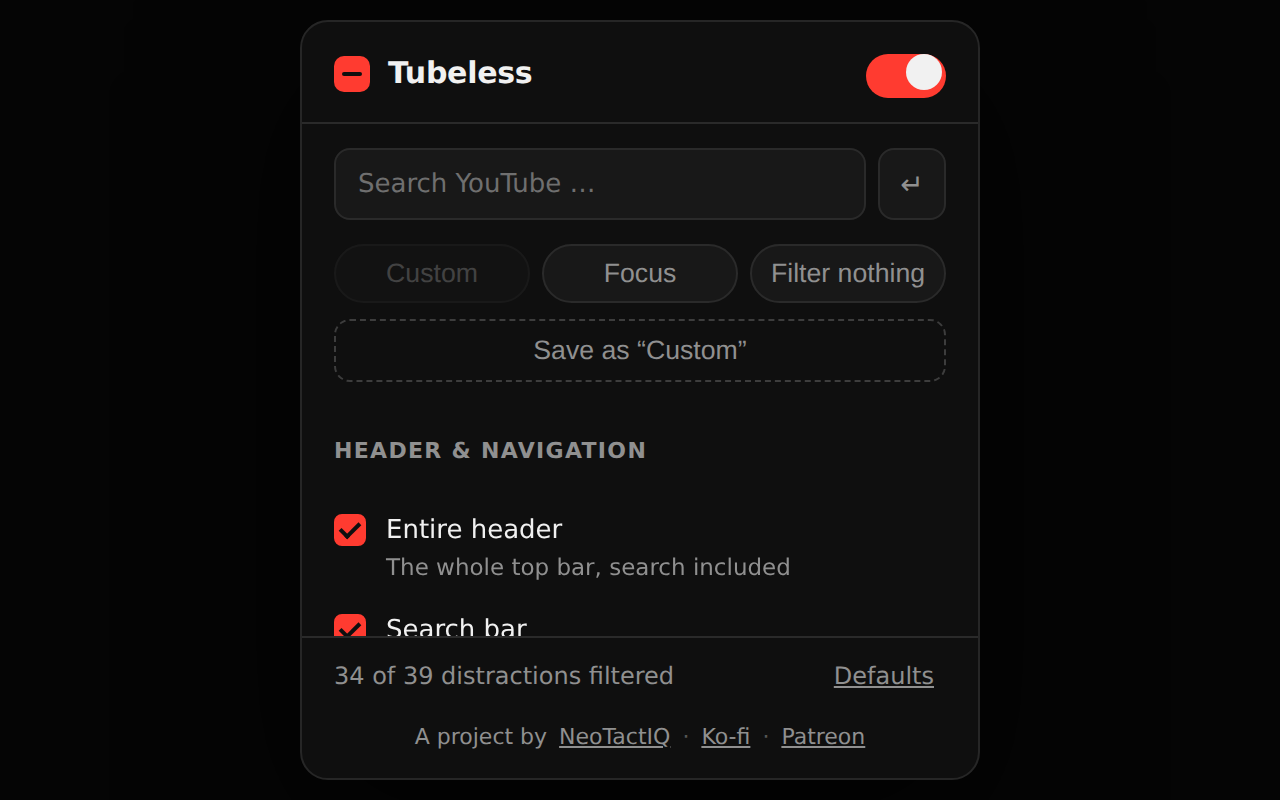
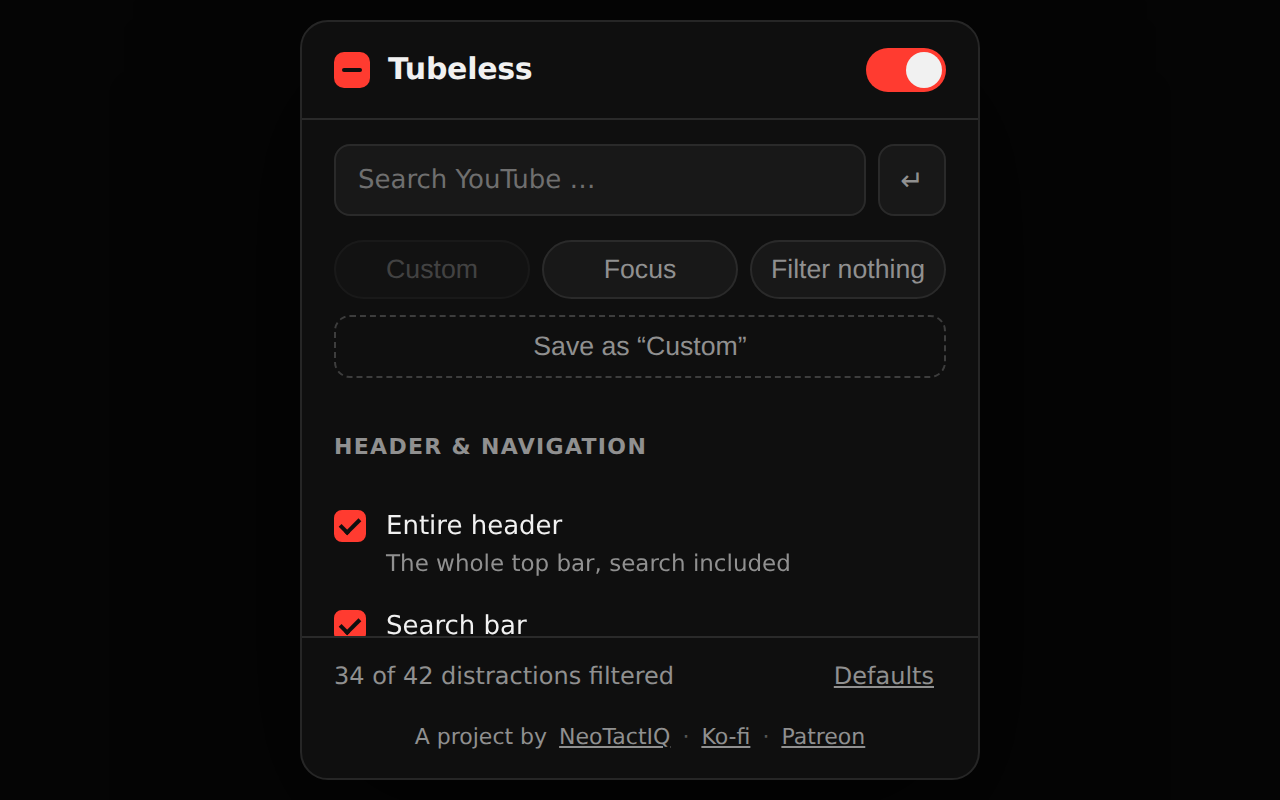
Kopfzeilen-Schalter deterministisch zentrieren, Doku-Audit
Der Master-Schalter hing von Font-Metriken ab: asymmetrisches Padding der
Kopfzeile (14/12 px) plus eine überflüssige Zeilenbox des Labels, die den Track
2 px aus der Mitte schob — je nach Umgebung wirkte er an den Rand gerückt.
Jetzt symmetrisches Padding (13 px) und .master als Flexbox; Label und Track
liegen nachgemessen deckungsgleich, 13 px oben / 14 px unten.

Doku-Audit auf Aktualität: privacy.md und beide Store-Texte sprachen noch von
zwei SponsorBlock-Schaltern — es sind drei (Markieren, Überspringen, Intros),
inklusive Hinweis auf das Fokus-Preset als Aktivierungsweg. Der
Popup-Screenshot fürs Store-Listing zeigte noch den 1.2er-Stand
(„34 of 39", alte Kopfzeile) — neu erzeugt mit 42 Filtern und korrigierter
Kopfzeile. Version 1.3.4, Paket neu gebaut.

diff --git a/popup/popup.css b/popup/popup.css
@@ -30,7 +30,7 @@ body {
   display: flex;
   align-items: center;
   justify-content: space-between;
-  padding: 14px 16px 12px;
+  padding: 13px 16px;
   border-bottom: 1px solid var(--line);
 }
 
@@ -63,8 +63,12 @@ body {
   letter-spacing: -0.01em;
 }
 
-/* Master-Schalter */
+/* Master-Schalter — als Flexbox, damit keine Zeilenbox des Labels den Track
+   aus der Mitte schiebt (2px-Versatz je nach Font-Metrik) */
 .master {
+  display: flex;
+  align-items: center;
+  flex: none;
   cursor: pointer;
 }
 .master input {

diff --git a/docs/privacy.md b/docs/privacy.md
@@ -24,8 +24,10 @@ Tubeless erhebt, speichert und überträgt **keine personenbezogenen Daten**.
 
 ### Optional: SponsorBlock
 
-Zwei Filter — „Sponsor-Segmente markieren“ und „Sponsor-Segmente überspringen“ —
-sind standardmäßig **ausgeschaltet**. Erst wenn du einen davon aktivierst, fragt
+Drei Filter — „Sponsor-Segmente markieren“, „Sponsor-Segmente überspringen“
+und „Auch Intros einbeziehen“ — sind standardmäßig **ausgeschaltet**. Erst wenn
+du Markieren oder Überspringen aktivierst (einzeln oder über das Preset
+„Fokus“), fragt
 Tubeless die Community-Datenbank SponsorBlock (sponsor.ajay.app) nach
 gemeldeten Sponsor-Abschnitten (optional auch Intros). Dabei werden **nicht** die Video-ID oder andere
 Daten übertragen, sondern nur die ersten vier Zeichen eines SHA-256-Hashes der
@@ -59,8 +61,9 @@ Tubeless collects, stores and transmits **no personal data**.
 
 ### Optional: SponsorBlock
 
-Two filters — “Mark sponsor segments” and “Skip sponsor segments” — are
-**off by default**. Only when you enable one of them does Tubeless query the
+Three filters — “Mark sponsor segments”, “Skip sponsor segments” and “Also
+include intros” — are **off by default**. Only when you enable marking or
+skipping (individually or via the “Focus” preset) does Tubeless query the
 community database SponsorBlock (sponsor.ajay.app) for reported sponsor
 sections (optionally intros too). This does **not** transmit the video ID or any other data — only the
 first four characters of a SHA-256 hash of the video ID (k-anonymity), from

diff --git a/docs/store-listing.de.md b/docs/store-listing.de.md
@@ -87,7 +87,8 @@ YouTube damit nicht, und ein Ersatz für einen Adblocker ist Tubeless nicht.
 OPTIONAL: SPONSOR-SEGMENTE (SPONSORBLOCK)
 
 Von Creators ins Video eingebaute Sponsorings kann Tubeless auf Wunsch grün in
-der Fortschrittsleiste markieren und automatisch überspringen. Beide Schalter
+der Fortschrittsleiste markieren und automatisch überspringen — auf Wunsch
+inklusive Intros, mit kurzer Einblendung nach jedem Sprung. Alle drei Schalter
 sind ab Werk AUS. Erst wenn du sie aktivierst, fragt Tubeless die
 Community-Datenbank SponsorBlock ab (optional auch für Intros) — anonymisiert: übertragen wird nur ein
 4-Zeichen-Hash-Präfix, nie die Video-ID. Ausgeschaltet heißt: keinerlei

diff --git a/docs/store-listing.en.md b/docs/store-listing.en.md
@@ -86,7 +86,8 @@ replacement for an ad blocker.
 OPTIONAL: SPONSOR SEGMENTS (SPONSORBLOCK)
 
 Sponsorships baked into the video by creators can, on request, be marked green
-in the progress bar and skipped automatically. Both switches are OFF out of the
+in the progress bar and skipped automatically — intros included on request,
+with a brief notice after every jump. All three switches are OFF out of the
 box. Only when you enable them does Tubeless query the SponsorBlock community
 database (optionally for intros too) — anonymized: only a 4-character hash prefix is transmitted, never the
 video ID. Switched off means: no requests at all.
